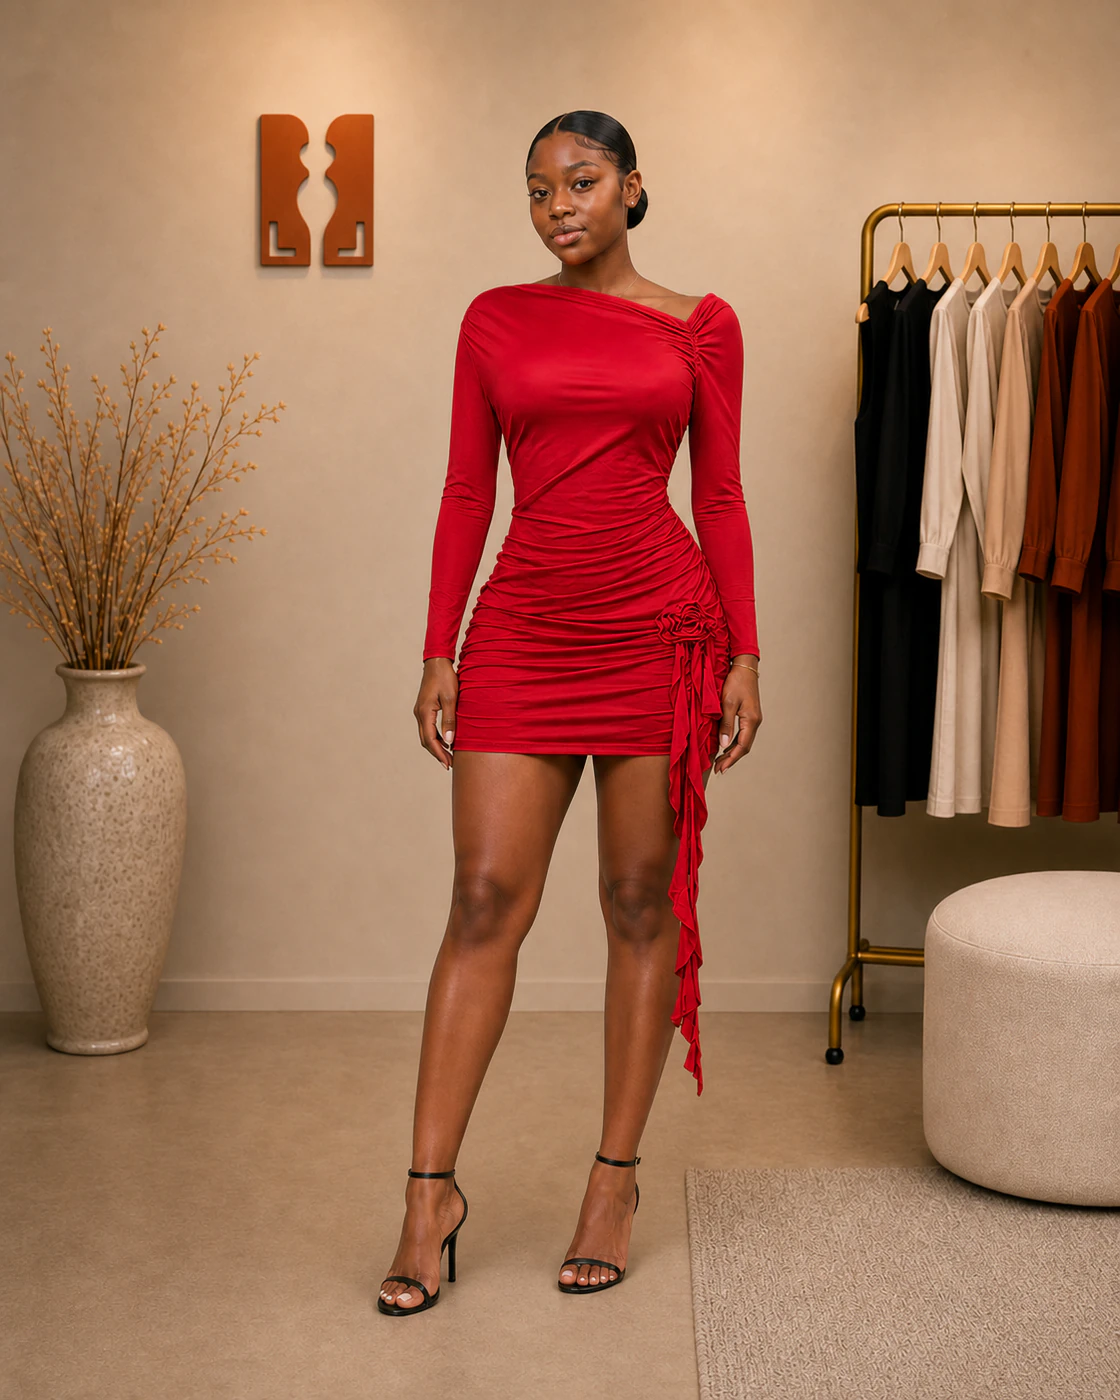
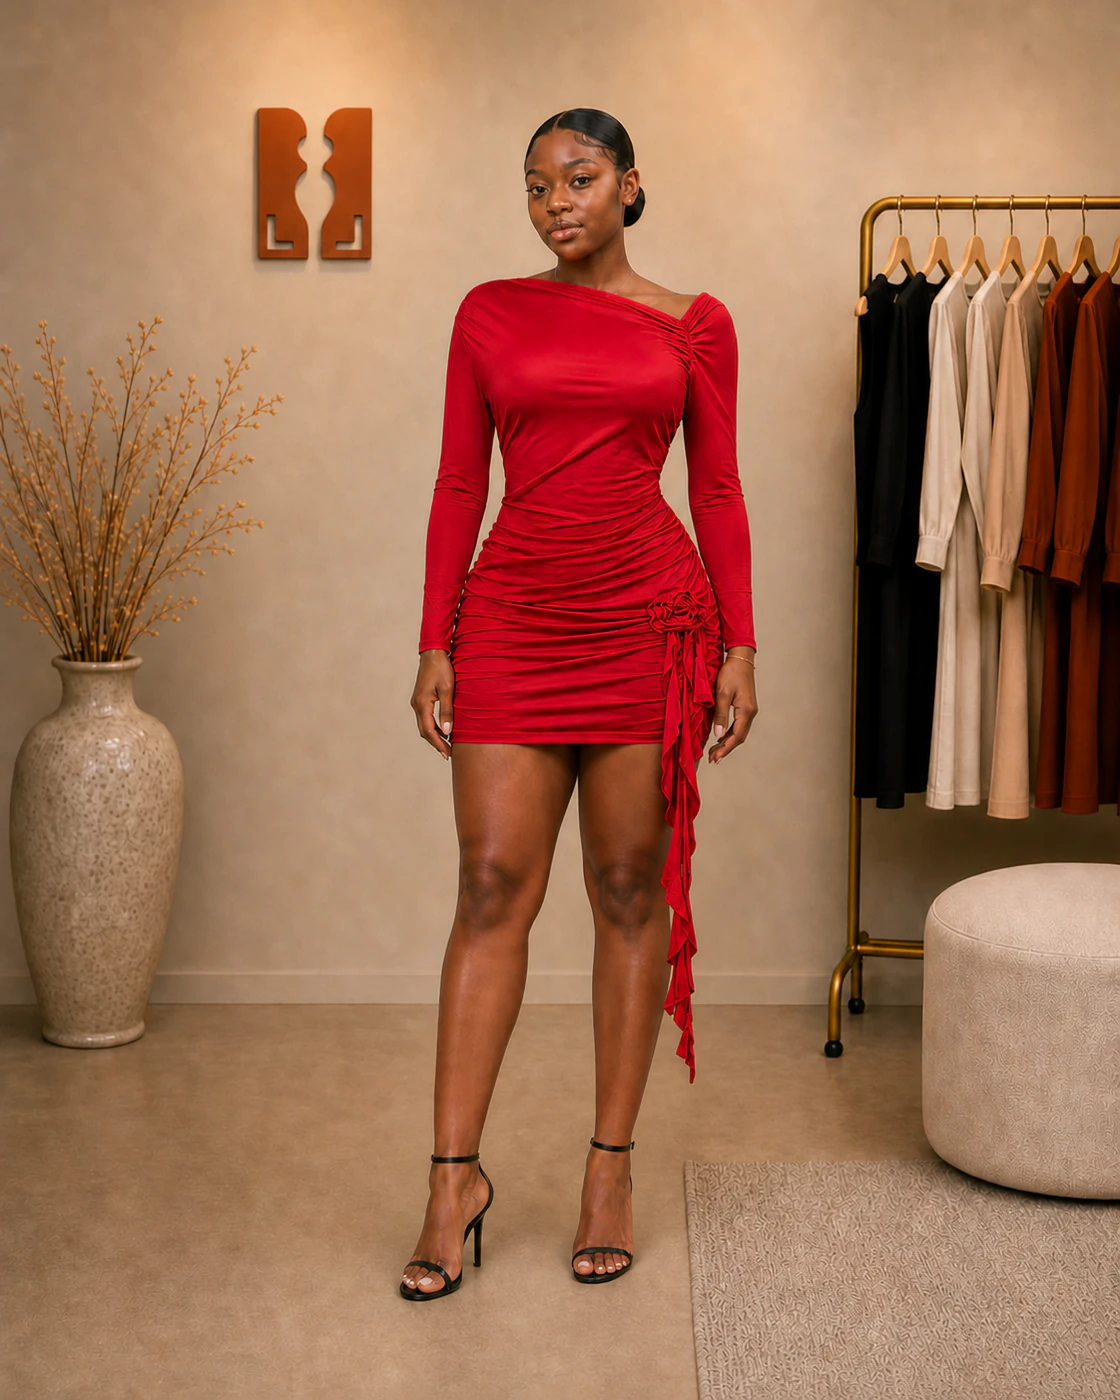
Correct Garment 023 catalogue media

diff --git a/tests/shop-db-release.test.ts b/tests/shop-db-release.test.ts
@@ -24,7 +24,7 @@ import {
 } from "../scripts/shop-db/release-core.mjs";
 
 const repositoryRoot = join(dirname(fileURLToPath(import.meta.url)), "..");
[2 lines of base64/hex data omitted]
 const legacySkuRenames = Object.fromEntries(
   Array.from({ length: 12 }, (_, index) => [
     `DYN-${String(index + 81).padStart(3, "0")}`,

diff --git a/docs/virtual-atelier/garments/023.md b/docs/virtual-atelier/garments/023.md
@@ -7,7 +7,7 @@
 - Slug: `scarlet-asymmetric-cascade-ruched-mini-dress`
 - Drop: `02`
 - Simulated price: `₦29,500`
-- Status: `01–07 private locked; Shop catalogue 33 live-verified`
+- Status: `corrected 01–07 private locked; Shop catalogue 34 release pending`
 
 ## Direct garment authority
 
@@ -26,31 +26,31 @@ The sources do not show the rear. Views 02 and 07 therefore remain explicitly in
 | --- | --- | --- | --- | --- |
[11 lines of base64/hex data omitted]
 
[2 lines of base64/hex data omitted]
 
[2 lines of base64/hex data omitted]
 
 ## Body and sibling-view record
 
-The subject and sibling operations used Lulu's complete approved identity stack and connected body geometry rather than free-text reinterpretation. View 06 uses the accepted side canon plus real multi-angle evidence. View 07 uses accepted G004/07 as conventional retail-orientation guidance, the approved rear canon, the complete face board and the exact atelier. Its first composite-board attempt produced no asset at the output moderation stage; one bounded evidence-packaging correction produced the accepted view without altering garment construction or accepted authorities.
+The user rejected the first public 03 because it reproduced the private source-room family and rejected model views 05–07 because the translated silhouette was too slim. Operation `g023-v03-r002` replaces 03 with an anonymous warm-gray mannequin on a seamless neutral sweep, with no source walls, curtains, tile, framing or mannequin reconstruction. Operation `g023-body-rebase-v05-r002` rebases the front master against the approved front canon and direct real-Lulu multi-angle evidence, restoring the connected defined-waist, fuller-hip and upper-thigh balance without isolated exaggeration. View 06 branches independently from corrected 05 with the side canon and direct evidence. Two direct 07 attempts returned no asset at output moderation; fresh operation `g023-v07-r005` used the already established accepted G004/07 orientation plus the truth-preserving rear-operation board, which packages the back canon, direct angle contact and gym rear-profile evidence without adding authority. The accepted 07 remains an inferred garment-rear presentation and never direct construction evidence.
 
 ## Public release
 
 - Public root: `public/shop/products/scarlet-asymmetric-cascade-ruched-mini-dress`
 - Public media: seven 1120×1400 Shop-safe WebP derivatives
-- Catalogue revision: `2026-08-25-catalogue-33`
[2 lines of base64/hex data omitted]
-- Release commit: `6a49292ed032000130baef40c6ff9162b5f33c41`
-- Production database: JUW-047 present and available; 41 catalogue rows verified
-- Deployment: `dpl_FaNvGvRHALiiQuAUP6MvpdHSZYiS` (`READY`)
+- Catalogue revision: `2026-08-25-catalogue-34`
[2 lines of base64/hex data omitted]
+- Release commit: pending
+- Production database: pending guarded descriptive release; SKU JUW-047 and 41-row catalogue unchanged
+- Deployment: pending
 - Canonical route: `https://www.justurbanwears.com/shop/products/scarlet-asymmetric-cascade-ruched-mini-dress`
-- Production smoke: 24/24 passed
-- Experience smoke: 18/18 passed
-- Browser verification: name, ₦29,500 price, one-piece availability, seven 1120×1400 assets, 23-piece collection and clean console confirmed
+- Production smoke: pending
+- Experience smoke: pending
+- Browser verification: pending corrected 03/05/06/07 asset verification

diff --git a/docs/data/SHOP_DATABASE.md b/docs/data/SHOP_DATABASE.md
@@ -23,7 +23,7 @@ A preview command must use `SHOP_DB_TARGET=preview` and the dedicated preview br
 | Verify ledger, catalogue presentation, and inventory-row presence | `npm run db:verify:shop` | No |
 | Apply a new revision's descriptive catalogue changes | `npm run db:sync:catalog` | Yes |
 
[2 lines of base64/hex data omitted]
 
 The 41-row manifest deliberately retains Drop 01 for recoverable operational retirement; the Drop 02 transition archives those 18 earlier rows and adopts the original eighteen Drop 02 rows into Studio in the same guarded release transaction. Garment 023 is the twenty-third Drop 02 piece and is adopted incrementally without rewriting inventory truth for pieces already operating in Studio.
 
